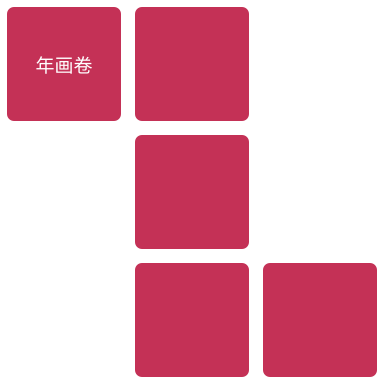
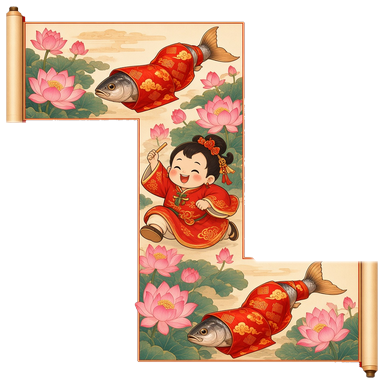
art: real Spring Festival item art and per-piece sprites

diff --git a/client/assets/scripts/pages/StagePage.ts b/client/assets/scripts/pages/StagePage.ts
@@ -1,4 +1,4 @@
-import { Color, EventTouch, Game, Graphics, Label, Node, Sprite, Tween, UITransform, Vec3, game, sys, tween, view } from 'cc';
+import { Color, EventTouch, Game, Graphics, Label, Node, Sprite, SpriteFrame, Tween, UITransform, Vec3, game, sys, tween, view } from 'cc';
 import { GAME_TITLE } from '../config/brand';
 import type { Point } from '../core/input';
 import { ITEMS } from '../core/items';
@@ -28,6 +28,7 @@ export class StagePage {
   private readonly session: StageSession;
   private readonly sounds: SoundEffects;
   private readonly background: Graphics;
+  private readonly itemFrames = new Map<string,SpriteFrame | undefined>();
   private readonly preview: Graphics;
   private readonly controls: Graphics;
   private readonly clock: Label;
@@ -351,8 +352,9 @@ export class StagePage {
     const g=view.graphics; g.clear();
     const box=dimensions(piece,rotation), w=box.w*size,h=box.h*size;
     view.node.getComponent(UITransform)!.setContentSize(w,h);
-    view.sprite.enabled=false; view.title.node.active=true;
     const chosen=this.selected?.id === piece.id;
+    if (this.drawPieceArt(piece,view,rotation,size,w,h,held,failed,chosen)) return;
+    view.sprite.enabled=false; view.title.node.active=true;
     const bodyColor=failed ? new Color(172,35,37) : itemColors[(piece.id-1)%itemColors.length];
     for (const [x,y] of pieceCells(piece,rotation)) {
       if (held) fill(g,shadow,x*size-w/2+8,h/2-(y+1)*size-9,size-3,size-3,5);
@@ -368,6 +370,43 @@ export class StagePage {
     fill(g,new Color(69,25,27,225),-labelW/2,-labelH/2,labelW,labelH,Math.min(12,labelH/2));
     fill(g,new Color(255,214,145,220),-labelW/2,-labelH/2,labelW,2,1);
     view.title.node.setPosition(0,0);
+  }
+
+  // Real item art: one Sprite per piece, rotated as a whole (art is drawn for rotation 0).
+  // Until the frame is available the coloured-cell fallback is drawn instead.
+  private drawPieceArt(piece: PieceDef,view: PieceView,rotation: Rotation,size: number,w: number,h: number,held: boolean,failed: boolean,chosen: boolean): boolean {
+    const key=ITEMS[piece.shape].key;
+    const frame=this.itemFrames.get(key);
+    if (!frame) {
+      if (!this.itemFrames.has(key)) {
+        this.itemFrames.set(key,undefined);
+        void loadArt(`items/${key}`).then(loaded => {
+          if (!loaded || !this.node.isValid) return;
+          this.itemFrames.set(key,loaded);
+          for (const other of this.allPieces) if (ITEMS[other.shape].key === key) {
+            const pv=this.pieces.get(other.id)!;
+            if (pv.size) this.drawPiece(other,pv.rotation,pv.size,pv.held,pv.failed);
+          }
+        });
+      }
+      return false;
+    }
+    const g=view.graphics;
+    const base=dimensions(piece,0);
+    // Soft glow under the occupied cells shows selection / pickup without hiding the art.
+    for (const [x,y] of pieceCells(piece,rotation)) {
+      const cx=x*size-w/2, cy=h/2-(y+1)*size;
+      if (held) fill(g,shadow,cx+8,cy-9,size-3,size-3,Math.max(6,size*.18));
+      if (chosen || held) fill(g,new Color(255,214,120,held ? 70 : 95),cx+1,cy+1,size-2,size-2,Math.max(6,size*.18));
+      if (failed) fill(g,new Color(220,40,40,90),cx+1,cy+1,size-2,size-2,Math.max(6,size*.18));
+    }
+    const sn=view.sprite.node;
+    sn.getComponent(UITransform)!.setContentSize(base.w*size,base.h*size);
+    sn.angle=90*rotation; sn.setPosition(0,0);
+    view.sprite.spriteFrame=frame; view.sprite.enabled=true;
+    view.sprite.color=failed ? new Color(255,150,150) : Color.WHITE;
+    view.title.node.active=false;
+    return true;
   }
 
   private point(event: EventTouch): Point {
